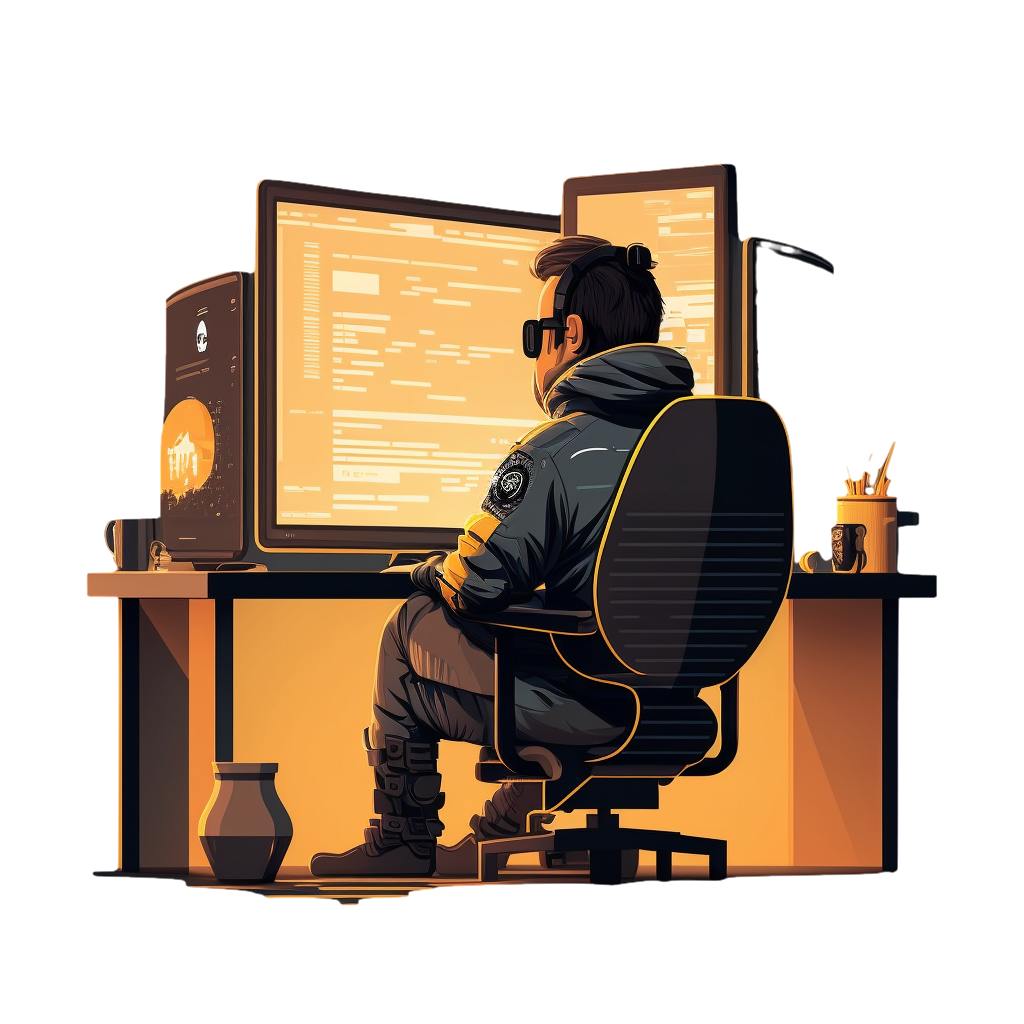
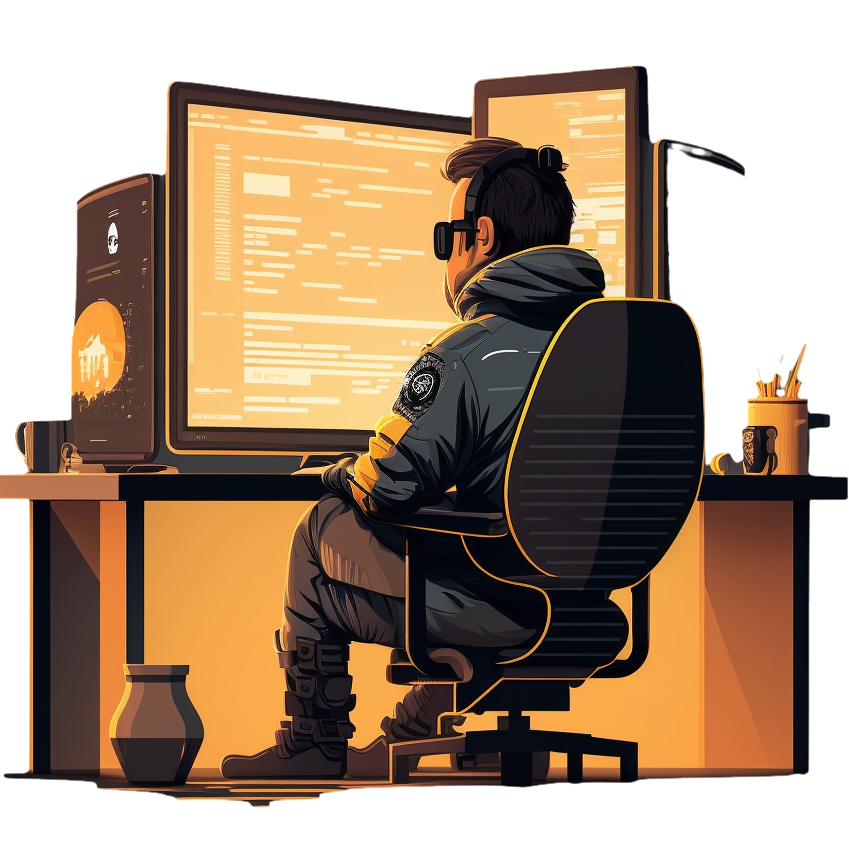
fixed with of hero image added about me section image

diff --git a/pages/index.tsx b/pages/index.tsx
@@ -3,6 +3,7 @@ import Head from "next/head";
 import HeroImage from "@/components/hero/HeroImage";
 import HeroText from "@/components/hero/HeroText";
 import SocialLinks from "@/components/buttons/SocialLinks";
+import AboutImage from "@/components/image/AboutImage";
 export default function Home() {
   return (
     <>
@@ -17,13 +18,17 @@ export default function Home() {
       </Head>
       <Navbar />
       <main className="mx-auto min-h-screen w-full max-w-[1500px] px-10 lg:px-28">
-        <section className="flex h-screen w-full items-center lg:gap-10 xl:gap-20" id="home">
+        <section className="flex h-screen w-full items-center justify-between lg:gap-10 xl:gap-20" id="home">
           <div className="lg:max-w-[50%]">
             <HeroText />
           </div>
           <HeroImage />
         </section>
+        <section className="flex h-screen w-full items-center lg:gap-10 xl:gap-20" id="about">
+          <AboutImage />
+        </section>
       </main>
+
       <SocialLinks />
     </>
   );

diff --git a/components/Buttons/SocialLinks.tsx b/components/Buttons/SocialLinks.tsx
@@ -62,7 +62,7 @@ const SocialLinks = () => {
           <motion.li
             variants={itemUp}
             className={
-              "ml-[-70px] flex h-10 w-32 items-center justify-between bg-transparent px-4 duration-300 hover:ml-[-10px]" +
+              "ml-[-70px] flex h-10 w-32 items-center justify-between bg-transparent px-4 text-cinder-700 duration-300 hover:ml-[-10px] hover:text-earth-300  dark:text-gray-400" +
               " " +
               style
             }
@@ -70,7 +70,7 @@ const SocialLinks = () => {
           >
             <a
               href={href}
-              className="flex w-full items-center justify-between text-sm font-semibold text-cinder-700 dark:text-gray-400"
+              className="flex w-full items-center justify-between text-sm font-semibold "
               download={download}
               target="_blank"
               rel="noreferrer"

diff --git a/components/image/AboutImage.tsx b/components/image/AboutImage.tsx
@@ -1,0 +1,13 @@
+import Image from "next/image";
+import Pp from "../../public/pp.png";
+const AboutImage = () => {
+  return (
+    <div className="relative block w-full max-w-[300px] overflow-hidden rounded-md ">
+      <Image src={Pp} alt="pp" className=" object-cover" width={300} height={300} />
+
+      {/* <div className="h-[250px] w-[250px] rounded-md bg-earth-300/80 bg-[url('/pp.jpeg')] bg-cover bg-blend-overlay"></div> */}
+    </div>
+  );
+};
+
+export default AboutImage;

diff --git a/components/hero/HeroImage.tsx b/components/hero/HeroImage.tsx
@@ -30,7 +30,7 @@ const HeroImage = () => {
             delay: 3.9,
           }}
         >
-          <Image src="/hero.png" className="hidden w-[500px] lg:block" alt="hero" width={500} height={500} />
+          <Image src="/hero.png" className="hidden w-[400px] lg:block" alt="hero" width={400} height={400} />
         </motion.div>
       </motion.div>
     </FadeInWhenVisible>
